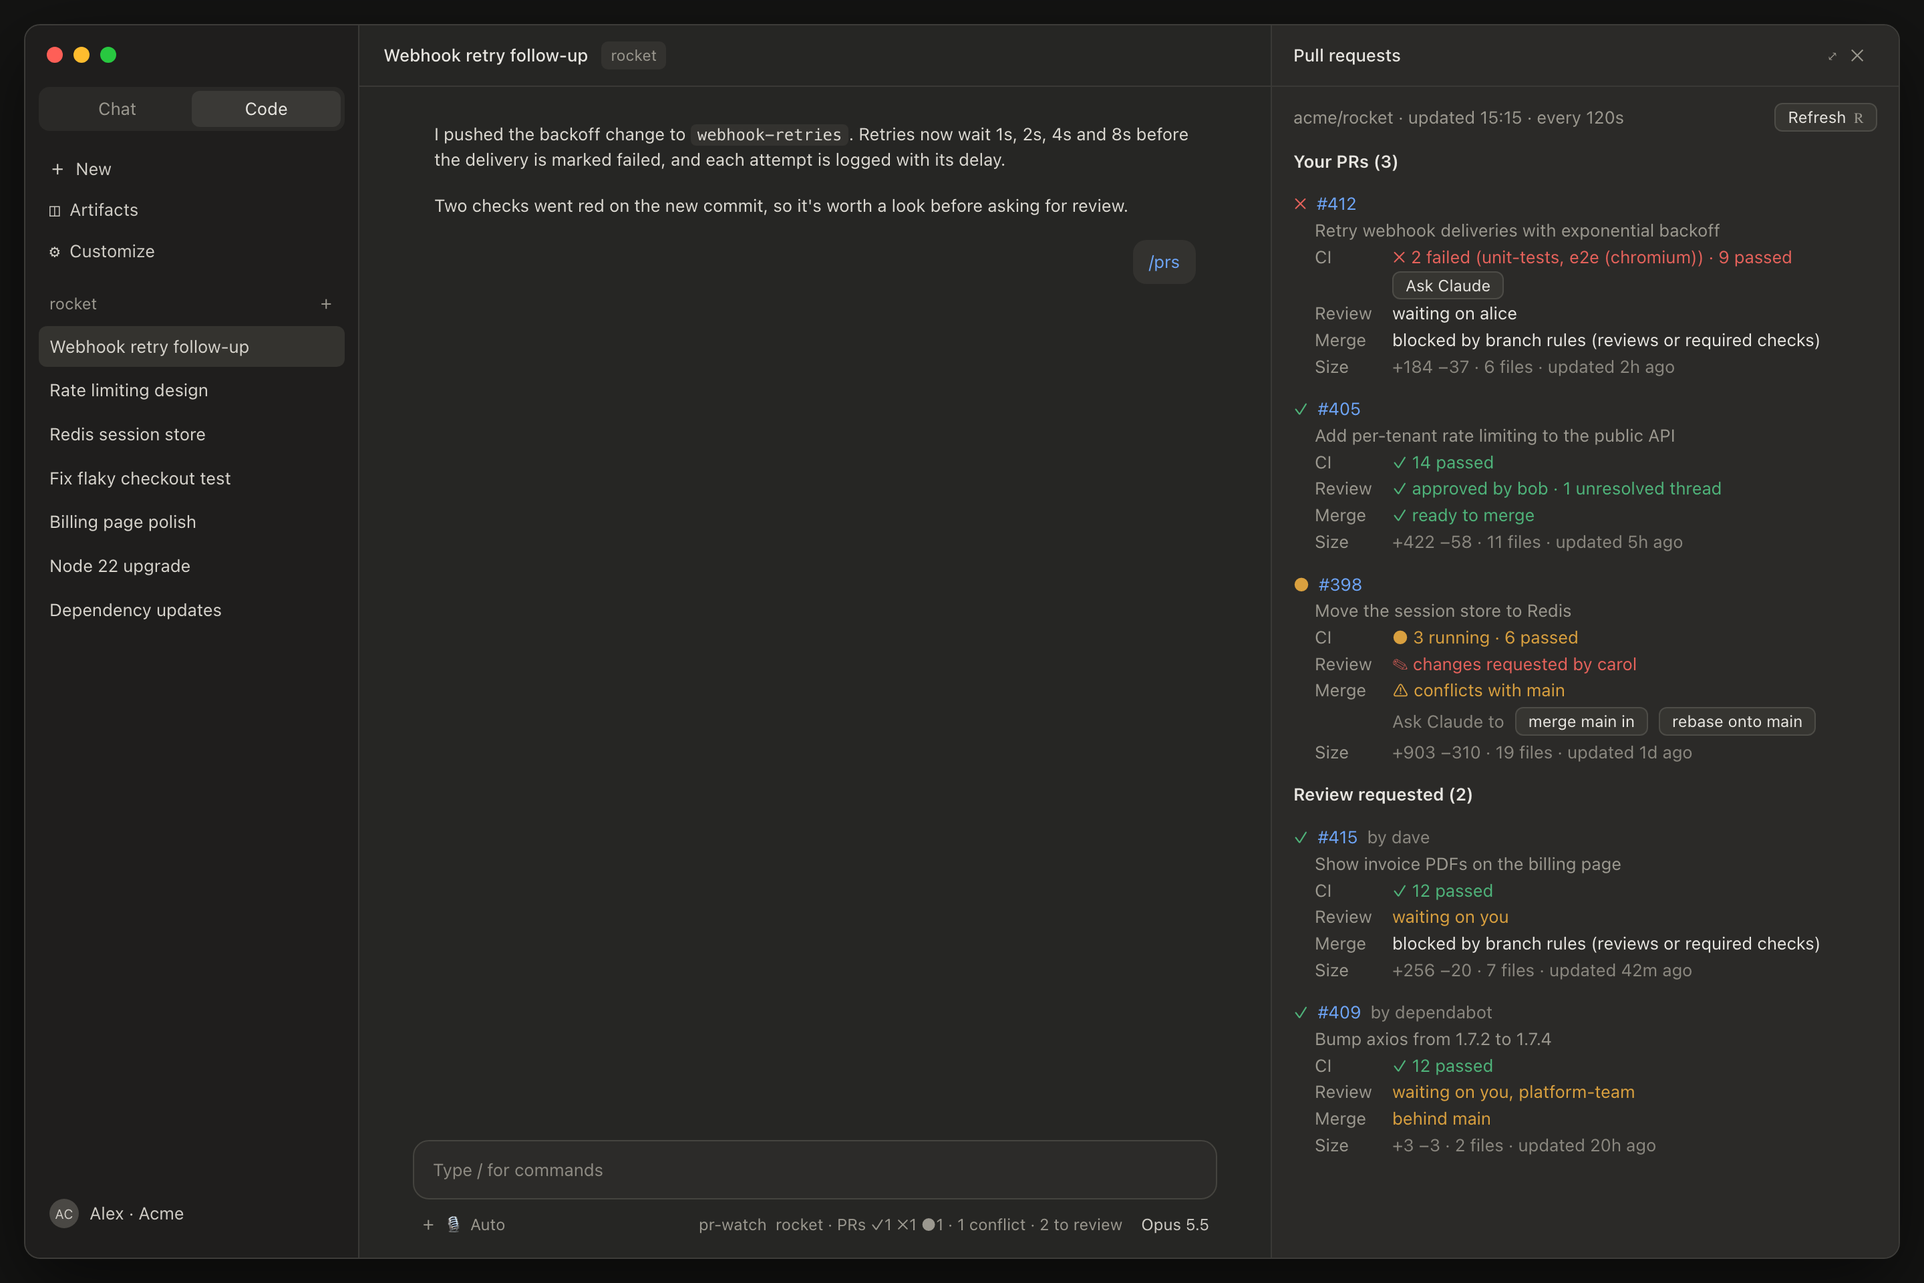
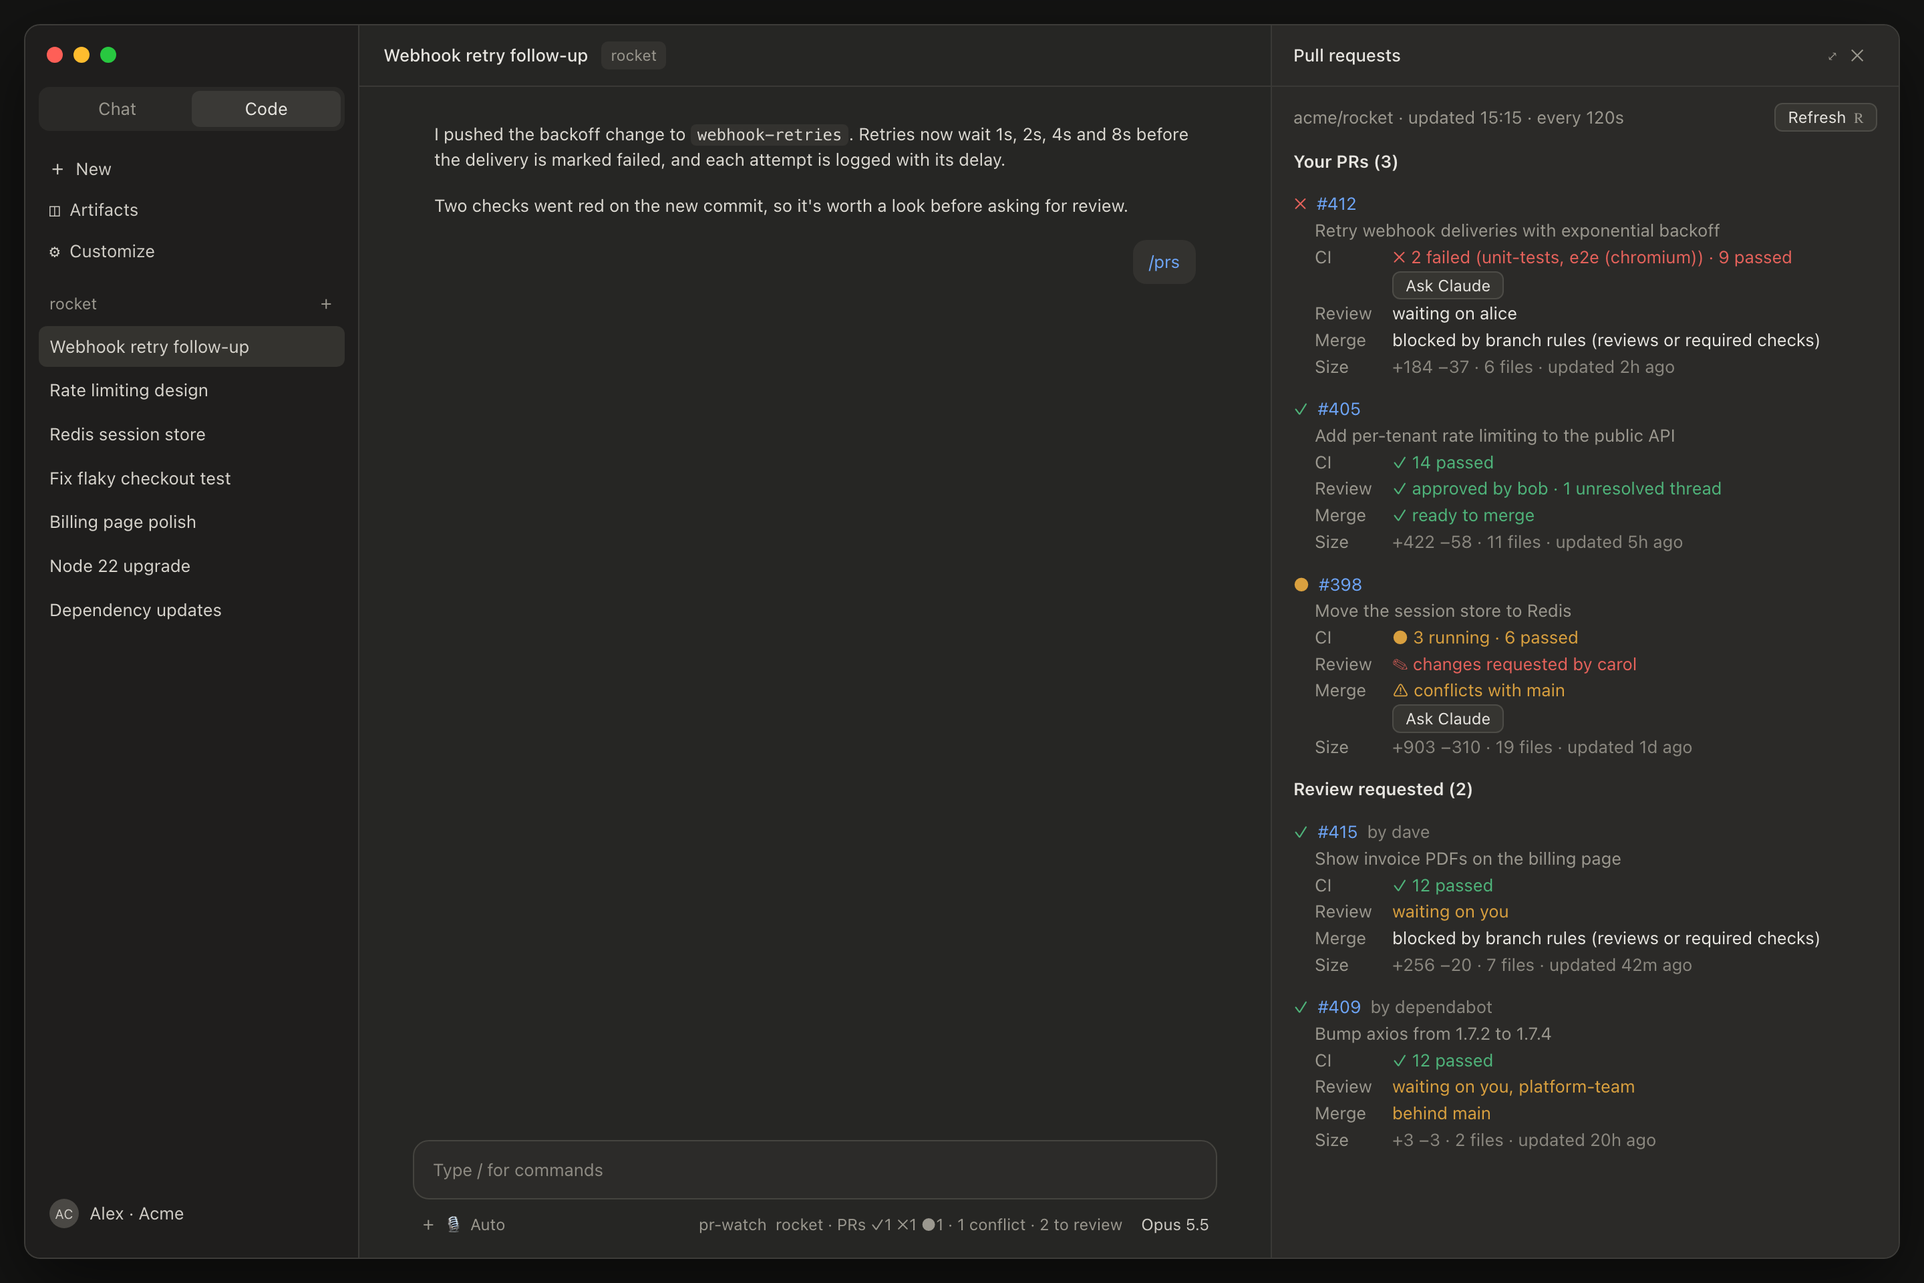
One Ask Claude for PRs that conflict or are behind main
Replaces the merge/rebase pair with a single button that asks Claude to
look into it and choose the fix itself: merge, rebase, or GitHub's
update-branch when the PR is only behind, explaining the choice and never
pushing unasked. README and screenshot updated.

Changed region(s): [[0.6562, 0.5312, 0.9375, 0.9062]]

diff --git a/hooks/register.tsx b/hooks/register.tsx
@@ -7,7 +7,7 @@ import type { Line } from './details'
 import { CI_ICON, changes, ref, settle, summary, toastText } from './diff'
 import { GH_CANDIDATES, ghArgs, parsePrs, parseRemote, reasonOf } from './github'
 import type { FetchResult } from './github'
-import { ciPrompt, conflictPrompt } from './prompts'
+import { ciPrompt, stalenessOf, updatePrompt } from './prompts'
 
 const PANE = 'pr-watch'
 const snapshot = atom({ plugin: 'pr-watch', key: 'latest' } as const, null)
@@ -46,7 +46,10 @@ async function sessionRepo($: EngineInterface): Promise<string | null> {
 
   let repo: string | null = null
   try {
-    const ran = await $.process.run(['git', 'remote', 'get-url', 'origin'], { cwd, timeoutMs: 5_000 })
+    const ran = await $.process.run(['git', 'remote', 'get-url', 'origin'], {
+      cwd,
+      timeoutMs: 5_000,
+    })
     repo = ran.exitCode === 0 ? parseRemote(ran.stdout) : null
   } catch {
     repo = null // no git here, or the folder is gone
@@ -63,7 +66,8 @@ async function fetchPrs($: EngineInterface, repo: string): Promise<FetchResult> 
     try {
       ran = await $.process.run([gh, ...ghArgs(repo)], { timeoutMs: 30_000 })
     } catch (err) {
-      if (/timed? ?out|still running/i.test(String(err))) return { ok: false, error: 'gh timed out' }
+      if (/timed? ?out|still running/i.test(String(err)))
+        return { ok: false, error: 'gh timed out' }
       continue // not installed here; try the next place
     }
     ghPath = gh
@@ -184,8 +188,8 @@ export const register: Register = (on, options) => {
     if (snap.repo === null) {
       return (
         <Text dimColor>
-          This session's folder is not a GitHub repo (no github.com origin remote), so there are
-          no PRs to show.
+          This session's folder is not a GitHub repo (no github.com origin remote), so there are no
+          PRs to show.
         </Text>
       )
     }
@@ -203,57 +207,65 @@ export const register: Register = (on, options) => {
       </Box>
     )
 
-    const row = (p: Pr) => (
-      <Box flexDirection="column">
-        <Box flexDirection="row" gap={1}>
-          <Text color={CI_COLOR[p.ci]}>{CI_ICON[p.ci]}</Text>
-          <Link href={p.url} label={`#${p.number}`} />
-          {tagsOf(p).map(tag => (
-            <Text color={tag.color}>{tag.text}</Text>
-          ))}
-        </Box>
-        <Box paddingLeft={2}>
-          <Text dimColor wrap="truncate-end">
-            {p.title}
-          </Text>
-        </Box>
-        {detail('CI', ciLine(p))}
-        {p.role === 'mine' && p.ci === 'failure' && (
-          <Box paddingLeft={10}>
-            <Button
-              key={`ask-ci:${p.url}`}
-              label="Ask Claude"
-              onPress={() => askClaude($, p, ciPrompt(p), 'look into failing CI')}
-            />
+    const row = (p: Pr) => {
+      const stale = stalenessOf(p)
+
+      return (
+        <Box flexDirection="column">
+          <Box flexDirection="row" gap={1}>
+            <Text color={CI_COLOR[p.ci]}>{CI_ICON[p.ci]}</Text>
+            <Link href={p.url} label={`#${p.number}`} />
+            {tagsOf(p).map(tag => (
+              <Text color={tag.color}>{tag.text}</Text>
+            ))}
           </Box>
-        )}
-        {detail('Review', reviewLine(p))}
-        {detail('Merge', mergeLine(p))}
-        {p.role === 'mine' && (p.merge === 'conflict' || p.mergeStatus === 'conflict') && (
-          <Box paddingLeft={10} flexDirection="row" gap={1}>
-            <Text dimColor>Ask Claude to</Text>
-            <Button
-              key={`ask-merge:${p.url}`}
-              label={`merge ${p.baseBranch || 'main'} in`}
-              onPress={() => askClaude($, p, conflictPrompt(p, 'merge'), 'resolve conflicts by merging')}
-            />
-            <Button
-              key={`ask-rebase:${p.url}`}
-              label={`rebase onto ${p.baseBranch || 'main'}`}
-              onPress={() => askClaude($, p, conflictPrompt(p, 'rebase'), 'resolve conflicts by rebasing')}
-            />
+          <Box paddingLeft={2}>
+            <Text dimColor wrap="truncate-end">
+              {p.title}
+            </Text>
           </Box>
-        )}
-        {detail('Size', sizeLine(p, now))}
-      </Box>
-    )
+          {detail('CI', ciLine(p))}
+          {p.role === 'mine' && p.ci === 'failure' && (
+            <Box paddingLeft={10}>
+              <Button
+                key={`ask-ci:${p.url}`}
+                label="Ask Claude"
+                onPress={() => askClaude($, p, ciPrompt(p), 'look into failing CI')}
+              />
+            </Box>
+          )}
+          {detail('Review', reviewLine(p))}
+          {detail('Merge', mergeLine(p))}
+          {p.role === 'mine' && stale !== undefined && (
+            <Box paddingLeft={10}>
+              <Button
+                key={`ask-update:${p.url}`}
+                label="Ask Claude"
+                onPress={() =>
+                  askClaude(
+                    $,
+                    p,
+                    updatePrompt(p, stale),
+                    stale === 'conflict'
+                      ? 'fix the merge conflicts'
+                      : `bring it up to date with ${p.baseBranch || 'main'}`,
+                  )
+                }
+              />
+            </Box>
+          )}
+          {detail('Size', sizeLine(p, now))}
+        </Box>
+      )
+    }
 
     return (
       <Box flexDirection="column" gap={1}>
         <Box flexDirection="row" justifyContent="space-between">
           <Text dimColor wrap="truncate-end">
-            {snap.repo} · {snap.fetchedAt === null ? 'not loaded yet' : `updated ${hhmm(snap.fetchedAt)}`}{' '}
-            · every {pollSeconds}s
+            {snap.repo} ·{' '}
+            {snap.fetchedAt === null ? 'not loaded yet' : `updated ${hhmm(snap.fetchedAt)}`} · every{' '}
+            {pollSeconds}s
           </Text>
           <Button key="refresh" label="Refresh" hotkey="r" onPress={() => poll($)} />
         </Box>

diff --git a/hooks/prompts.ts b/hooks/prompts.ts
@@ -1,7 +1,13 @@
 import type { Pr } from '../types'
 
-/** How Claude brings the base branch into a conflicting PR branch. */
-export type Strategy = 'merge' | 'rebase'
+/** Why a PR of mine is out of date with its base branch, if it is. */
+export type Staleness = 'conflict' | 'behind'
+
+export const stalenessOf = (p: Pr): Staleness | undefined => {
+  if (p.merge === 'conflict' || p.mergeStatus === 'conflict') return 'conflict'
+  if (p.mergeStatus === 'behind') return 'behind'
+  return undefined
+}
 
 const header = (p: Pr) => `My pull request ${p.repo}#${p.number} "${p.title}" (${p.url})`
 
@@ -14,25 +20,29 @@ export const ciPrompt = (p: Pr): string =>
     'Explain the root cause and propose a fix. Do not push or change the PR without asking me first.',
   ].join('\n')
 
-/** The prompt behind Ask Claude on a PR of mine that conflicts with its base branch. */
-export const conflictPrompt = (p: Pr, strategy: Strategy): string => {
+/**
+ * The prompt behind Ask Claude on a PR of mine that conflicts with, or is
+ * behind, its base branch: Claude looks into it and picks the fix itself.
+ */
+export const updatePrompt = (p: Pr, why: Staleness): string => {
   const base = p.baseBranch || 'main'
-  const how =
-    strategy === 'merge'
-      ? `Merge \`origin/${base}\` into it and resolve each conflict, keeping the intent of both sides.`
-      : `Rebase it onto \`origin/${base}\` and resolve each conflict as it comes up, keeping the intent of both sides.`
-  const push =
-    strategy === 'merge'
-      ? 'Do not push or change the PR without asking me first.'
-      : 'Updating the PR then needs `git push --force-with-lease`; do not push or change the PR without asking me first.'
+  const isConflict = why === 'conflict'
+  const options = isConflict
+    ? `merging \`${base}\` into the branch or rebasing it onto \`${base}\``
+    : `merging \`${base}\` into the branch, rebasing it onto \`${base}\`, or GitHub's update-branch (\`gh pr update-branch ${p.number} --repo ${p.repo}\`, with or without \`--rebase\`)`
 
   return [
-    `${header(p)} has merge conflicts with \`${base}\`; its branch is \`${p.branch}\`.`,
-    `Resolve them by ${strategy === 'merge' ? `merging \`${base}\` into the branch` : `rebasing the branch onto \`${base}\``}:`,
-    `1. Run \`git fetch origin\`, then work on \`${p.branch}\` in a separate git worktree so my current checkout and any uncommitted changes stay untouched.`,
-    `2. ${how}`,
-    "3. Run the project's tests and type-check.",
-    '4. Show me which files conflicted and how you resolved each one.',
-    push,
+    `${header(p)} ${isConflict ? 'has merge conflicts with' : 'is behind'} \`${base}\`; its branch is \`${p.branch}\`.`,
+    'Look into it and decide the best way to fix it:',
+    `1. Run \`git fetch origin\` and see how far \`${p.branch}\` is behind \`origin/${base}\`${isConflict ? ' and which files conflict' : ''}.`,
+    ...(isConflict
+      ? []
+      : [
+          "   If updating isn't needed (nothing requires the branch to be up to date and it merges cleanly), tell me so and stop.",
+        ]),
+    `2. Choose between ${options}. Weigh the repo's conventions (its docs and recent history), whether branch protection requires the branch to be up to date, and any reviews a force-push would disrupt. Tell me what you chose and why.`,
+    `3. Do the work on \`${p.branch}\` in a separate git worktree so my current checkout and any uncommitted changes stay untouched${isConflict ? ', resolving each conflict so that the intent of both sides is kept' : ''}.`,
+    `4. Run the project's tests and type-check${isConflict ? ', then show me which files conflicted and how you resolved each one' : ''}.`,
+    'Do not push, force-push or update the PR on GitHub without asking me first.',
   ].join('\n')
 }

diff --git a/tests/poll.test.ts b/tests/poll.test.ts
@@ -1,4 +1,5 @@
 import { expect, mock, test } from 'claude-code/testing'
+import type { Engine } from 'claude-code/testing'
 import type { On } from 'claude-code'
 
 type Count = { state: string; count: number }
@@ -256,7 +257,16 @@ test('the pane lists the PR and Ask Claude queues a prompt', async ($, on) => {
   expect(seen.prompts[0]).toContain('unit tests')
 })
 
-test('a conflicting PR of mine offers merge or rebase; a review request does not', async ($, on) => {
+const mountPane = ($: Engine, surface: 'terminal' | 'desktop') =>
+  $.ui.mount({
+    plugin: 'pr-watch',
+    surface,
+    component: 'Pane',
+    requestId: 'pr-watch',
+    props: PANE_PROPS,
+  })
+
+test('a conflicting PR of mine gets one Ask Claude that leaves the fix to Claude', async ($, on) => {
   const clock = mock.clock(on)
   const URL = 'https://github.com/acme/app/pull/1'
   let role: 'mine' | 'review' = 'mine'
@@ -268,38 +278,49 @@ test('a conflicting PR of mine offers merge or rebase; a review request does not
   await clock.settle()
 
   for (const surface of ['terminal', 'desktop'] as const) {
-    const ui = await $.ui.mount({
-      plugin: 'pr-watch',
-      surface,
-      component: 'Pane',
-      requestId: 'pr-watch',
-      props: PANE_PROPS,
-    })
+    const ui = await mountPane($, surface)
     expect(await ui.find({ text: '⚠ conflicts with main' })).toBeDefined()
-    expect(await ui.find({ key: `ask-merge:${URL}` })).toBeDefined()
-    expect(await ui.find({ key: `ask-rebase:${URL}` })).toBeDefined()
+    expect(await ui.find({ key: `ask-update:${URL}` })).toBeDefined()
     // CI is only running, so there is no CI button.
     expect(await ui.find({ key: `ask-ci:${URL}` })).toBeUndefined()
 
-    await ui.press({ key: surface === 'terminal' ? `ask-merge:${URL}` : `ask-rebase:${URL}` })
+    await ui.press({ key: `ask-update:${URL}` })
     await ui.unmount()
   }
 
   expect(seen.prompts.length).toBe(2)
-  expect(seen.prompts[0]).toContain('Merge `origin/main` into it')
-  expect(seen.prompts[1]).toContain('Rebase it onto `origin/main`')
-  expect(seen.prompts[1]).toContain('git push --force-with-lease')
+  expect(seen.prompts[0]).toContain('has merge conflicts with `main`')
+  expect(seen.prompts[0]).toContain('decide the best way to fix it')
+  expect(seen.toasts.at(-1)).toBe(
+    'Asked Claude to fix the merge conflicts on app#1; it starts once the session is idle',
+  )
 
   role = 'review'
   await clock.advance(120_000)
-  const ui = await $.ui.mount({
-    plugin: 'pr-watch',
-    surface: 'terminal',
-    component: 'Pane',
-    requestId: 'pr-watch',
-    props: PANE_PROPS,
-  })
+  const ui = await mountPane($, 'terminal')
   expect(await ui.find({ text: /Review requested \(1\)/ })).toBeDefined()
-  expect(await ui.find({ key: `ask-merge:${URL}` })).toBeUndefined()
+  expect(await ui.find({ key: `ask-update:${URL}` })).toBeUndefined()
   await ui.unmount()
+})
+
+test('a PR of mine that is behind main gets the same Ask Claude', async ($, on) => {
+  const clock = mock.clock(on)
+  const URL = 'https://github.com/acme/app/pull/1'
+  // The fixture PR merges cleanly and GitHub reports it BEHIND.
+  const seen = world(on, { cwd: '/code/app' }, () => answer(PENDING))
+
+  await $.session.start(START)
+  await clock.settle()
+
+  const ui = await mountPane($, 'desktop')
+  expect(await ui.find({ text: 'behind main' })).toBeDefined()
+  await ui.press({ key: `ask-update:${URL}` })
+  await ui.unmount()
+
+  expect(seen.prompts.length).toBe(1)
+  expect(seen.prompts[0]).toContain('is behind `main`')
+  expect(seen.prompts[0]).toContain('gh pr update-branch 1 --repo acme/app')
+  expect(seen.toasts.at(-1)).toBe(
+    'Asked Claude to bring it up to date with main on app#1; it starts once the session is idle',
+  )
 })

diff --git a/tests/prompts.test.ts b/tests/prompts.test.ts
@@ -1,6 +1,6 @@
 import { describe, expect, test } from 'claude-code/testing'
 
-import { ciPrompt, conflictPrompt } from '../hooks/prompts'
+import { ciPrompt, stalenessOf, updatePrompt } from '../hooks/prompts'
 import { pr } from './fixtures'
 
 describe('ciPrompt', () => {
@@ -13,24 +13,40 @@ describe('ciPrompt', () => {
   })
 })
 
-describe('conflictPrompt', () => {
-  const conflicted = pr({ merge: 'conflict', baseBranch: 'develop' })
-
-  test('merge brings the base branch in, in a separate worktree, without pushing', () => {
-    const text = conflictPrompt(conflicted, 'merge')
-    expect(text).toContain('has merge conflicts with `develop`; its branch is `fix-thing`.')
-    expect(text).toContain('merging `develop` into the branch')
-    expect(text).toContain('Merge `origin/develop` into it')
-    expect(text).toContain('separate git worktree')
-    expect(text).toContain('Do not push or change the PR without asking me first.')
-    expect(text).not.toContain('force')
+describe('stalenessOf', () => {
+  test('a conflict wins over being behind', () => {
+    expect(stalenessOf(pr({ merge: 'conflict', mergeStatus: 'behind' }))).toBe('conflict')
+    expect(stalenessOf(pr({ mergeStatus: 'conflict' }))).toBe('conflict')
   })
 
-  test('rebase replays onto the base branch and warns about the force-push', () => {
-    const text = conflictPrompt(conflicted, 'rebase')
-    expect(text).toContain('rebasing the branch onto `develop`')
-    expect(text).toContain('Rebase it onto `origin/develop`')
-    expect(text).toContain('git push --force-with-lease')
-    expect(text).toContain('do not push or change the PR without asking me first.')
+  test('behind, or nothing to fix', () => {
+    expect(stalenessOf(pr({ mergeStatus: 'behind' }))).toBe('behind')
+    expect(stalenessOf(pr({ mergeStatus: 'ready' }))).toBeUndefined()
+    expect(stalenessOf(pr({ mergeStatus: 'blocked' }))).toBeUndefined()
+  })
+})
+
+describe('updatePrompt', () => {
+  test('a conflict: Claude picks merge or rebase, resolves, explains, never pushes unasked', () => {
+    const text = updatePrompt(pr({ merge: 'conflict', baseBranch: 'develop' }), 'conflict')
+    expect(text).toContain('has merge conflicts with `develop`; its branch is `fix-thing`.')
+    expect(text).toContain('decide the best way to fix it')
+    expect(text).toContain('merging `develop` into the branch or rebasing it onto `develop`')
+    expect(text).toContain('Tell me what you chose and why.')
+    expect(text).toContain('separate git worktree')
+    expect(text).toContain('how you resolved each one')
+    expect(text).toContain(
+      'Do not push, force-push or update the PR on GitHub without asking me first.',
+    )
+    // GitHub's update-branch cannot resolve conflicts, so it is not offered.
+    expect(text).not.toContain('update-branch')
+  })
+
+  test('behind: update-branch is an option, and doing nothing is allowed', () => {
+    const text = updatePrompt(pr({ mergeStatus: 'behind' }), 'behind')
+    expect(text).toContain('is behind `main`; its branch is `fix-thing`.')
+    expect(text).toContain('`gh pr update-branch 1 --repo acme/app`')
+    expect(text).toContain("If updating isn't needed")
+    expect(text).not.toContain('conflict')
   })
 })

diff --git a/README.md b/README.md
@@ -26,7 +26,7 @@ A Claude Code mod that keeps an eye on the GitHub pull requests of the repo you'
   Press **Refresh** (`r`) to check right away.
 - **Ask Claude.** Your own PRs get buttons that queue a prompt for Claude. Nothing runs unless you press one, and Claude is told not to push or change the PR without asking you first.
   - **Failing CI:** **Ask Claude** has Claude read the failing logs with `gh` and propose a fix.
-  - **Merge conflict:** **merge main in** or **rebase onto main**, whichever you prefer. Claude works on the branch in a separate git worktree, so your current checkout is left alone. It resolves the conflicts, runs the tests and type-check, and shows you how it resolved each file. After a rebase, it asks before the force-push the PR needs.
+  - **Merge conflict or behind main:** **Ask Claude** has Claude look into the problem and choose the fix itself. It picks between merging main in, rebasing onto main, or GitHub's update-branch (when the PR is only behind), and tells you which it chose and why. It weighs the repo's conventions, branch protection, and existing reviews that a force-push would disrupt. If a PR that's only behind doesn't need updating, Claude says so and stops. Claude works on the branch in a separate git worktree, so your current checkout is left alone, and it runs the tests and type-check. For conflicts, it shows you how it resolved each file.
 - **Follows the session's repo.** It reads the `origin` remote of the session's folder, so each session shows its own repo. Folders that aren't on github.com get no status line.
 
 ## Requirements
@@ -77,7 +77,7 @@ Use only one of the two install methods; otherwise the mod loads twice.
 | Details | Type `/prs` to open the pane |
 | Check now | **Refresh** in the pane, or `r` while the pane has focus |
 | Fix failing CI | **Ask Claude** under a failing PR of yours |
-| Resolve a conflict | **merge main in** or **rebase onto main** under a conflicting PR of yours |
+| Fix a conflict or catch up with main | **Ask Claude** under the Merge line of a PR of yours that conflicts or is behind |
 
 In the terminal, the pane opens docked beside the conversation when the window is wide enough, and inline when it isn't.
 
